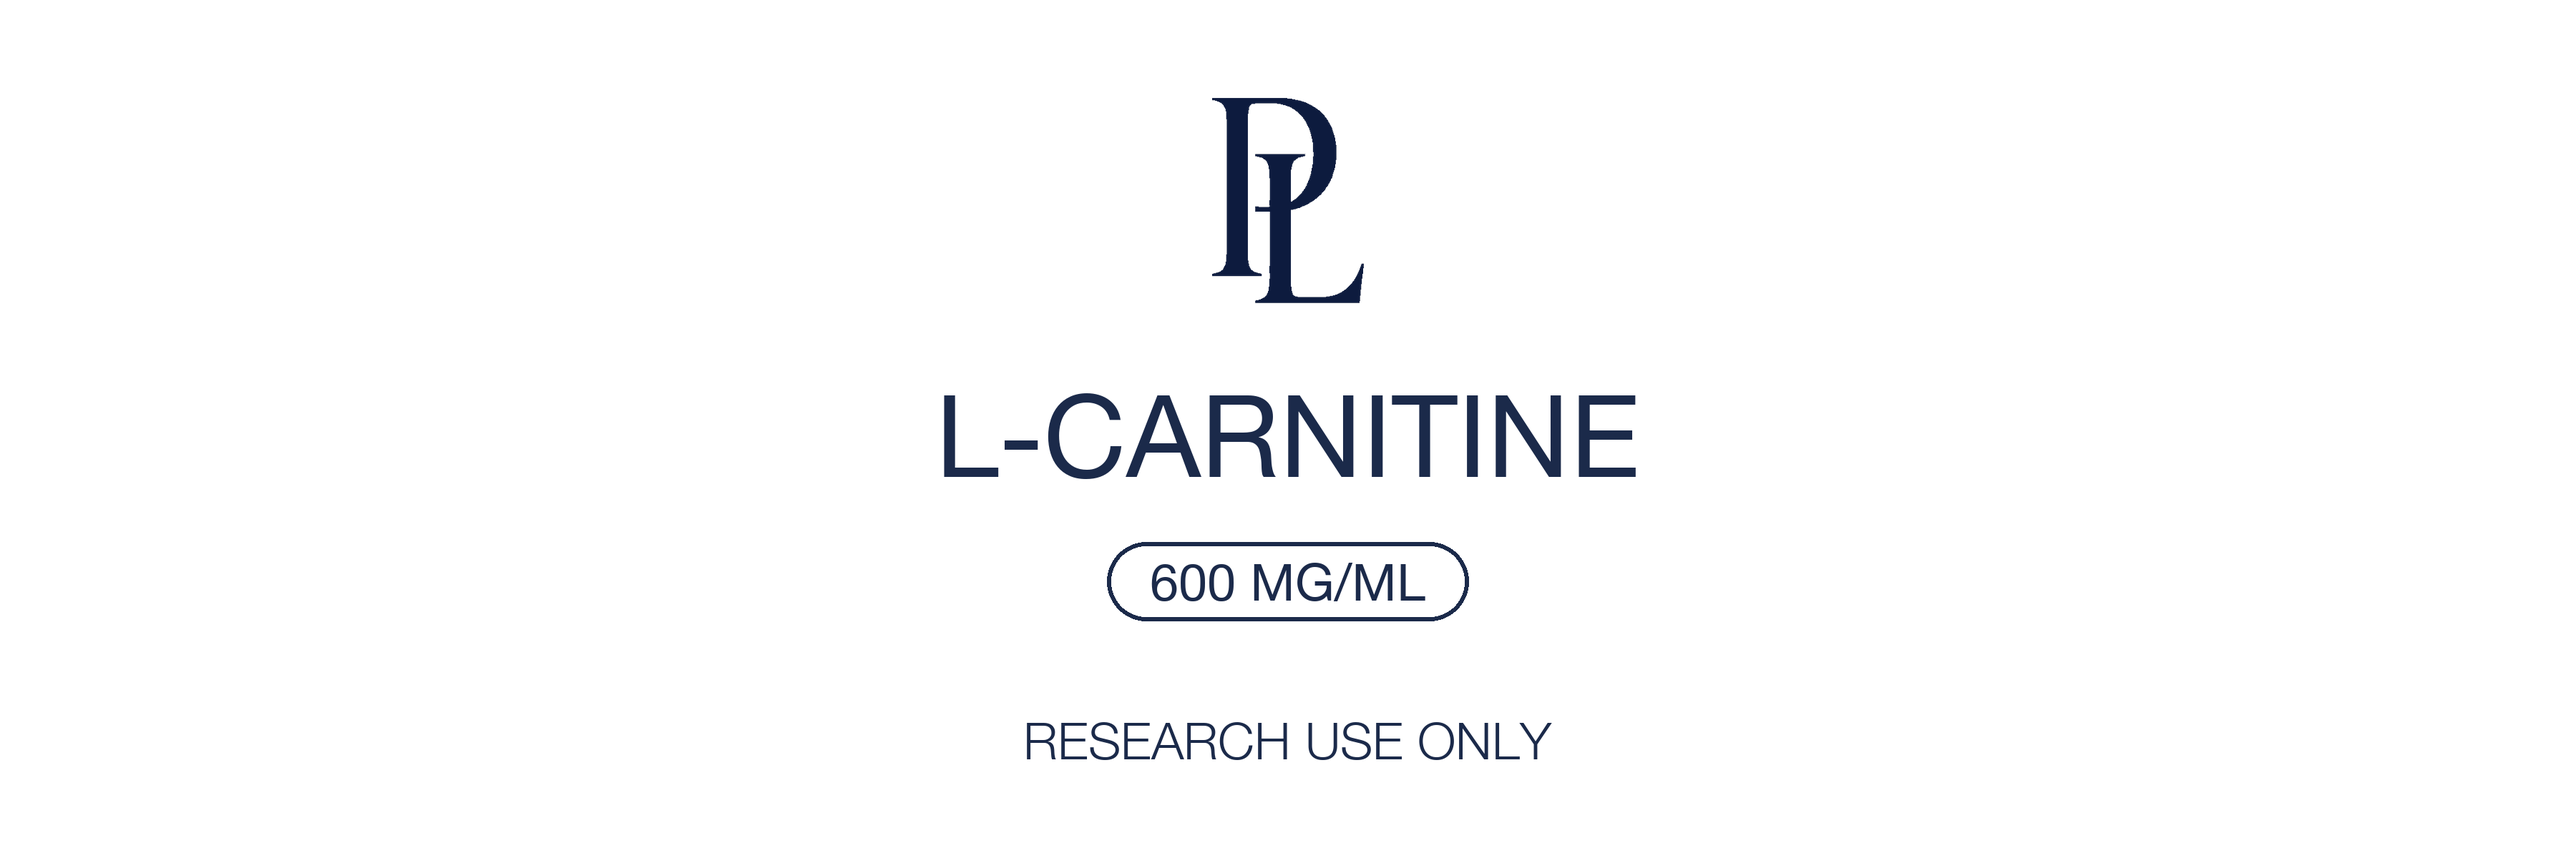
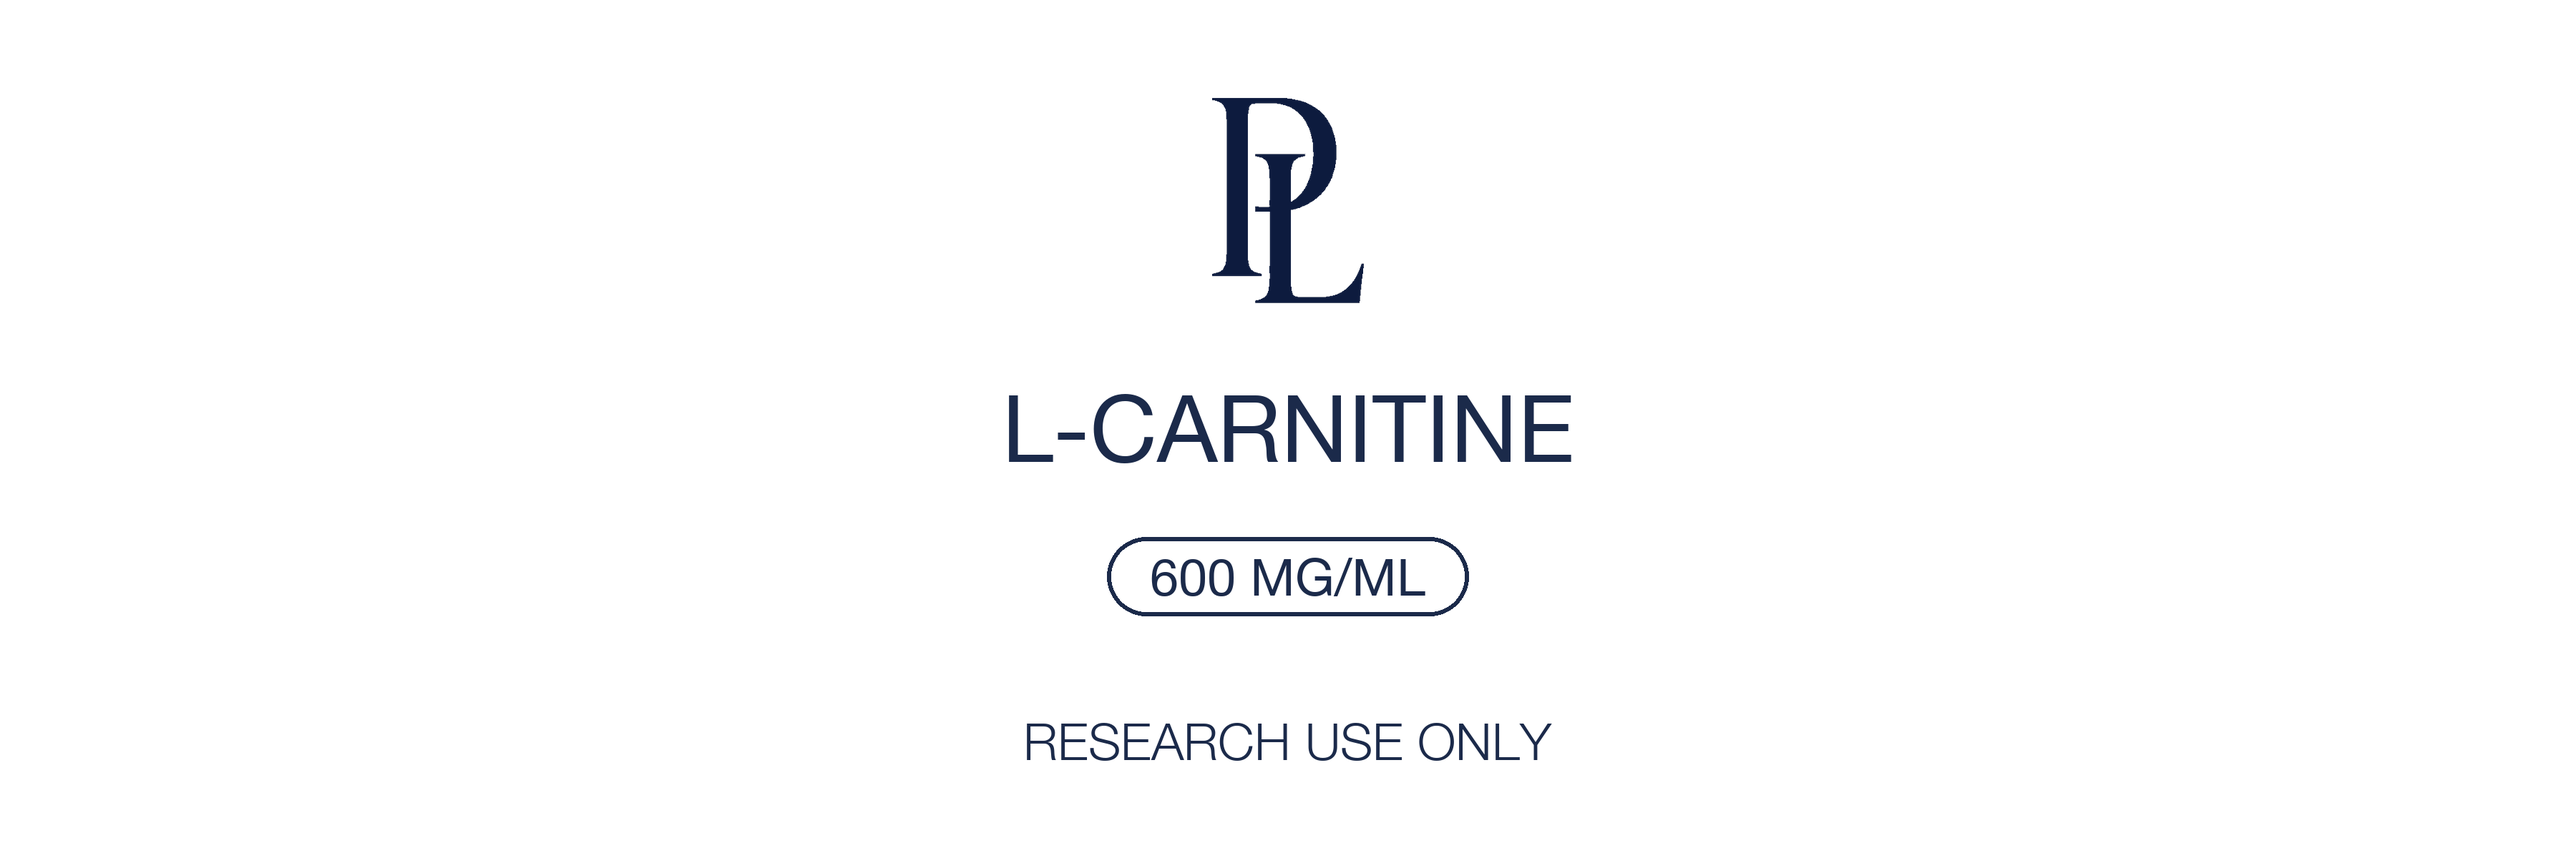
fix: rename BAC WATER label to RECONSTITUTION SOLUTION

Changed region(s): [[0.3422, 0.4625, 0.6533, 0.555], [0.4356, 0.6167, 0.56, 0.74]]

diff --git a/scripts/generate-labels.py b/scripts/generate-labels.py
@@ -23,7 +23,12 @@ def draw_label(filename, product_name, dosage):
     img  = Image.new("RGBA", (W, H), TRANSPARENT)
     draw = ImageDraw.Draw(img)
 
-    font_name   = load_font(*HN_REGULAR, 160) if len(product_name) <= 12 else load_font(*HN_REGULAR, 120)
+    if len(product_name) <= 10:
+        font_name = load_font(*HN_REGULAR, 160)
+    elif len(product_name) <= 18:
+        font_name = load_font(*HN_REGULAR, 130)
+    else:
+        font_name = load_font(*HN_REGULAR, 100)
     font_dosage = load_font(*HN_REGULAR, 72)
     font_tag    = load_font(*HN_LIGHT,   72)
 
@@ -110,7 +115,7 @@ PRODUCTS = [
     ("label-glutathione.png",  "GLUTATHIONE",           "1200 MG"),
     ("label-lcarnitine.png",   "L-CARNITINE",           "600 MG/ML"),
     ("label-nad.png",          "NAD+",                  "600 MG"),
-    ("label-bacwater.png",     "BAC WATER",             "10 ML"),
+    ("label-bacwater.png",     "RECONSTITUTION SOLUTION", "10 ML"),
     ("label-ghkcu-50.png",     "GHK-CU",                "50 MG"),
     ("label-ghkcu-100.png",    "GHK-CU",                "100 MG"),
 ]
